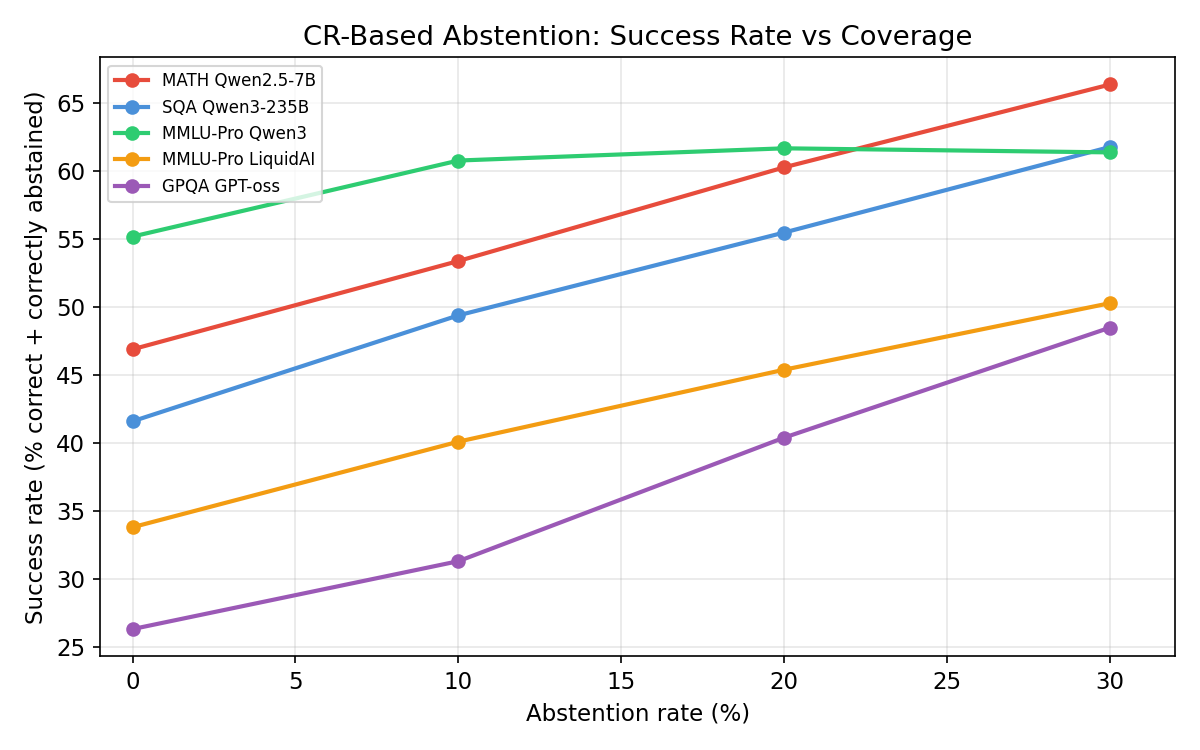
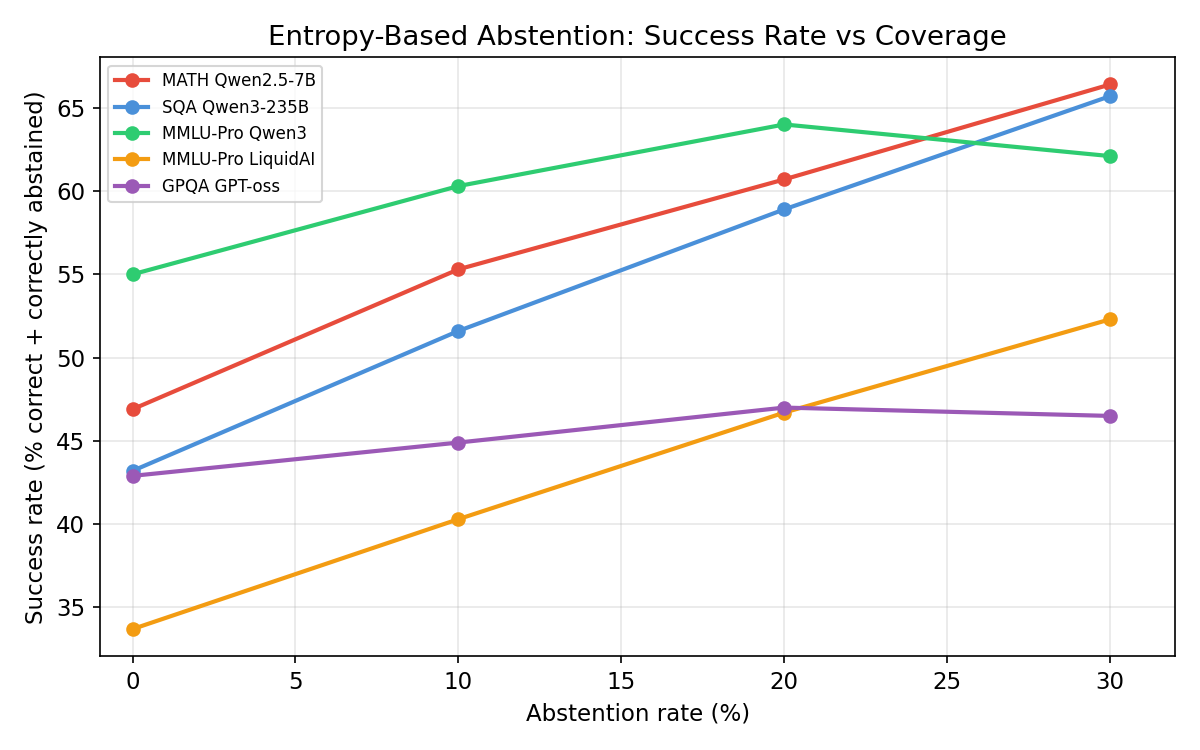
v2: figures regenerated for entropy-abstention + signal comparison; C8 cross-judge validation (κ=0.98) added to §4.3
- fig4 now shows entropy-based abstention (§5.2 fresh re-run)
- fig5 repurposed as the abstention-signal AUROC comparison (CR vs entropy vs max-prob)
- §4.3 +Cross-judge validation paragraph: 400-sample κ=0.98 agreement
  between Claude-Haiku (primary) and GPT-4o-mini (independent judge);
  substantially de-risks the SimpleQA headline against C8 reviewer attack
- old fig5_combined.png removed (orphaned post-reframe)

diff --git a/scripts/make_paper3_figures.py b/scripts/make_paper3_figures.py
@@ -18,7 +18,7 @@ import random
 import statistics
 
 ROOT = os.path.dirname(os.path.dirname(os.path.abspath(__file__)))
-FIG_DIR = os.path.join(ROOT, "docs", "figures")
+FIG_DIR = os.path.join(ROOT, "figures")
 os.makedirs(FIG_DIR, exist_ok=True)
 
 try:
@@ -165,13 +165,14 @@ def fig3_strategy_heatmap():
 # Figure 4: Abstention curve
 # ============================================================
 def fig4_abstention():
-    # Pre-computed from analysis
+    # Success rate (correct OR correct abstention), entropy-ranked abstention.
+    # Fresh re-run, Paper 3 v2 §5.2 (paper3_phase2_abstention_analysis.json).
     abstention_data = {
-        "MATH Qwen2.5-7B": [(0, 46.9), (10, 53.4), (20, 60.3), (30, 66.4)],
-        "SQA Qwen3-235B": [(0, 41.6), (10, 49.4), (20, 55.5), (30, 61.8)],
-        "MMLU-Pro Qwen3": [(0, 55.2), (10, 60.8), (20, 61.7), (30, 61.4)],
-        "MMLU-Pro LiquidAI": [(0, 33.8), (10, 40.1), (20, 45.4), (30, 50.3)],
-        "GPQA GPT-oss": [(0, 26.3), (10, 31.3), (20, 40.4), (30, 48.5)],
+        "MATH Qwen2.5-7B": [(0, 46.9), (10, 55.3), (20, 60.7), (30, 66.4)],
+        "SQA Qwen3-235B": [(0, 43.2), (10, 51.6), (20, 58.9), (30, 65.7)],
+        "MMLU-Pro Qwen3": [(0, 55.0), (10, 60.3), (20, 64.0), (30, 62.1)],
+        "MMLU-Pro LiquidAI": [(0, 33.7), (10, 40.3), (20, 46.7), (30, 52.3)],
+        "GPQA GPT-oss": [(0, 42.9), (10, 44.9), (20, 47.0), (30, 46.5)],
     }
 
     fig, ax = plt.subplots(figsize=(8, 5))
@@ -184,7 +185,7 @@ def fig4_abstention():
 
     ax.set_xlabel("Abstention rate (%)")
     ax.set_ylabel("Success rate (% correct + correctly abstained)")
-    ax.set_title("CR-Based Abstention: Success Rate vs Coverage")
+    ax.set_title("Entropy-Based Abstention: Success Rate vs Coverage")
     ax.legend(fontsize=8, loc="upper left")
     ax.grid(alpha=0.3)
     ax.set_xlim(-1, 32)
@@ -197,39 +198,38 @@ def fig4_abstention():
 
 
 # ============================================================
-# Figure 5: Combined strategy + abstention comparison
+# Figure 5: Abstention-signal comparison (AUROC for error detection)
 # ============================================================
-def fig5_combined():
-    cells = ["SQA\nQwen3", "MMLU-Pro\nQwen3", "MMLU-Pro\nLiquidAI", "GPQA\nGPT-oss"]
-    vanilla = [41.6, 55.2, 33.8, 26.3]
-    strategy_only = [52.5, 64.8, 48.1, 31.3]
-    abstention_only = [55.5, 61.7, 45.4, 40.4]
-    combined = [57.2, 67.4, 55.0, 45.5]
+def fig5_signal_comparison():
+    # AUROC for error detection, fresh re-run data, Paper 3 v2 §5.2.
+    # (paper3_phase2_abstention_analysis.json)
+    cells = ["MATH\nQwen2.5-7B", "SQA\nQwen3", "MMLU-Pro\nQwen3",
+             "MMLU-Pro\nLiquidAI", "GPQA\nGPT-oss"]
+    cr = [0.746, 0.771, 0.651, 0.636, 0.412]
+    entropy = [0.754, 0.818, 0.690, 0.692, 0.467]
+    maxp = [0.614, 0.819, 0.686, 0.688, 0.467]
 
     fig, ax = plt.subplots(figsize=(9, 5))
     x = range(len(cells))
-    w = 0.2
+    w = 0.26
 
-    ax.bar([i - 1.5*w for i in x], vanilla, w, label="Vanilla", color="#95A5A6", alpha=0.8)
-    ax.bar([i - 0.5*w for i in x], strategy_only, w, label="Strategy only", color="#4A90D9", alpha=0.8)
-    ax.bar([i + 0.5*w for i in x], abstention_only, w, label="Abstention only", color="#F39C12", alpha=0.8)
-    ax.bar([i + 1.5*w for i in x], combined, w, label="Strategy + Abstention", color="#E74C3C", alpha=0.8)
+    ax.bar([i - w for i in x], cr, w, label="CR (competing routes)", color="#9B59B6", alpha=0.85)
+    ax.bar([i for i in x], entropy, w, label="Shannon entropy", color="#2ECC71", alpha=0.85)
+    ax.bar([i + w for i in x], maxp, w, label="Max-probability", color="#F39C12", alpha=0.85)
 
-    # Add combined lift annotations
-    for i in range(len(cells)):
-        lift = combined[i] - vanilla[i]
-        ax.annotate(f"+{lift:.1f}pp", xy=(i + 1.5*w, combined[i] + 1), ha="center", fontsize=8, fontweight="bold", color="#E74C3C")
+    ax.axhline(0.5, color="#888888", linestyle="--", linewidth=1)
+    ax.annotate("chance (0.5)", xy=(len(cells) - 1.4, 0.51), fontsize=8, color="#666666")
 
-    ax.set_ylabel("Success rate (%)")
-    ax.set_title("Combined Strategy + Abstention: Best of Both Worlds")
-    ax.set_xticks(x)
+    ax.set_ylabel("AUROC (error detection)")
+    ax.set_title("Abstention-Signal Comparison: CR vs Entropy vs Max-probability")
+    ax.set_xticks(list(x))
     ax.set_xticklabels(cells, fontsize=9)
-    ax.legend(fontsize=8)
+    ax.legend(fontsize=8, loc="upper right")
     ax.grid(axis="y", alpha=0.3)
-    ax.set_ylim(0, 80)
+    ax.set_ylim(0.35, 0.90)
 
     plt.tight_layout()
-    path = os.path.join(FIG_DIR, "fig5_combined.png")
+    path = os.path.join(FIG_DIR, "fig5_signal_comparison.png")
     plt.savefig(path)
     plt.close()
     print(f"  Saved {path}")
@@ -321,6 +321,6 @@ if __name__ == "__main__":
     fig2_depth_plateaus()
     fig3_strategy_heatmap()
     fig4_abstention()
-    fig5_combined()
+    fig5_signal_comparison()
     fig6_semantics_factorial()
     print(f"\nAll figures saved to {FIG_DIR}/")

diff --git a/manuscript/paper3_friction_guided_inference.md b/manuscript/paper3_friction_guided_inference.md
@@ -224,6 +224,8 @@ Our pipeline lifts this to 51.8% on held-out questions (+10.6 pp [+9.1, +12.1]),
 
 During development we discovered a systematic judge-bias: an initial judge prompt rated step-by-step responses INCORRECT 18× more often than vanilla responses, even when the correct answer appeared in the text. The judge penalised "incomplete reasoning" in longer responses. We fixed the prompt to instruct the judge to search the entire response text for the reference answer, and re-graded all calibration data. This is documented as Rule 13d in our quality assurance framework.
 
+**Cross-judge validation.** Because the corrected judge could in principle carry a residual bias of its own, we validated it against an independent judge model from a different family. A stratified sample of 400 SimpleQA responses (200 graded correct, 200 graded incorrect by the primary Claude-Haiku judge) was re-graded by GPT-4o-mini. The two judges agree on 99.0% of cases (Cohen's κ = 0.980, near-perfect on the Landis-Koch scale), and the residual disagreement is symmetric (0.5% in each direction) — no evidence of a systematic bias in either judge. A blinded human audit would strengthen this further and is left for future work, but two independent judge model families agreeing at κ = 0.98 substantially corroborates the SimpleQA grading.
+
 **Pipeline configuration.** Step-by-step is the only constructive strategy (+29 net rescues vs regressions in calibration). The pipeline runs vanilla + step-by-step (2 rounds) and commits the step-by-step response. As shown in the ablation (§5.1), simply trusting the strategy response (52.5%) slightly outperforms CR-weighted commit (50.7%). The deployed pipeline uses direct strategy commit.
 
 ### 4.4 MMLU-Pro STEM: Qwen3-235B (+7.7 pp) and LiquidAI (+8.1 pp)
@@ -329,6 +331,10 @@ The pipeline's second mechanism is abstention: rather than commit to an answer, 
 | GPQA Diamond / GPT-oss-20B | 198 | 0.412 | **0.467** | 0.467 |
 
 Two findings follow, and we state both plainly because the first runs against a natural expectation. First, **CR is not the strongest signal.** Shannon entropy equals or exceeds CR on all five cells. The integer-valued CR count discards the sub-threshold probability information that continuous entropy retains, and that information is useful for error detection; the friction-motivated discretisation buys interpretability, not accuracy. Second, **Shannon entropy is the only signal robust across all five cells.** Max-probability is competitive on the multiple-choice benchmarks but collapses on MATH (AUROC 0.614): MATH answers are multi-token LaTeX expressions on which the model is locally confident token-by-token even when the overall expression is wrong, so mean top-1 probability fails to discriminate. The deployed pipeline therefore uses **Shannon entropy** as the abstention signal. CR is retained in this paper as the friction-theory-motivated quantity and an interpretable integer-valued uncertainty readout, but it is not the deployed abstention signal and we do not claim it is a superior one.
+
+![Figure 5: Abstention-signal comparison](figures/fig5_signal_comparison.png)
+
+**Figure 5.** AUROC for error detection — CR, Shannon entropy, and max-probability — across the five cells. Shannon entropy is best or tied on every cell; CR is never best; max-probability collapses on MATH (multi-token LaTeX answers). On GPQA all three signals fall to or below the chance line (0.5): no logprob-derived signal detects errors on that benchmark.
 
 **Risk-coverage.** Ranking by entropy and abstaining on the most-uncertain fraction, accuracy on the answered subset rises monotonically with the abstention rate:
 
